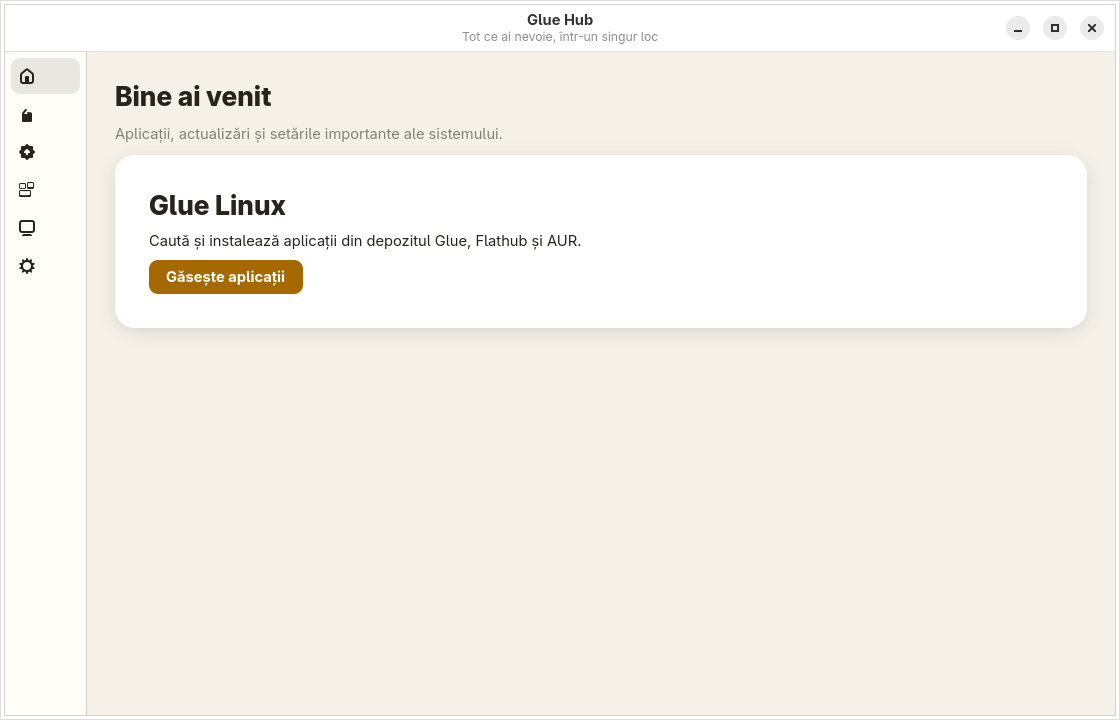
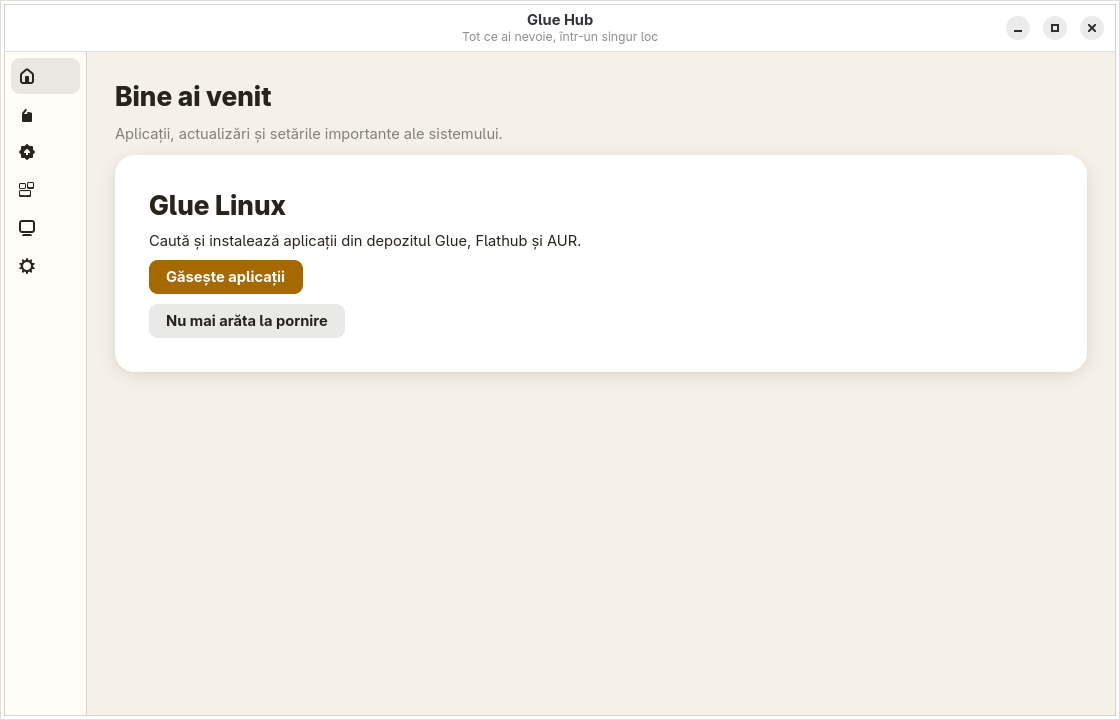
Hub: adauga autostart, taste si preview Gentoo

Changed region(s): [[0.0938, 0.4278, 0.9688, 0.4889]]

diff --git a/packages/glue-hub/glue_hub/pages.py b/packages/glue-hub/glue_hub/pages.py
@@ -2,13 +2,14 @@
 
 from __future__ import annotations
 
-import json
 import subprocess
+import json
 from pathlib import Path
 
 from gi.repository import GLib, Gtk
 
 from .system import system_summary
+from .keybindings import binding_rows, load_shell_choices
 
 
 def base_page(title: str, subtitle: str = "") -> Gtk.Box:
@@ -25,7 +26,7 @@ def base_page(title: str, subtitle: str = "") -> Gtk.Box:
     return page
 
 
-def home_page(open_apps) -> tuple[Gtk.Widget, Gtk.Widget, Gtk.Widget]:
+def home_page(open_apps, disable_autostart) -> tuple[Gtk.Widget, Gtk.Widget, Gtk.Widget]:
     page = base_page(
         "Bine ai venit", "Aplicații, actualizări și setările importante ale sistemului.")
     hero = Gtk.Box(orientation=Gtk.Orientation.VERTICAL, spacing=10)
@@ -40,6 +41,9 @@ def home_page(open_apps) -> tuple[Gtk.Widget, Gtk.Widget, Gtk.Widget]:
     button.add_css_class("suggested-action")
     button.connect("clicked", lambda _button: open_apps())
     hero.append(button)
+    hide = Gtk.Button(label="Nu mai arăta la pornire", halign=Gtk.Align.START)
+    hide.connect("clicked", lambda button: (disable_autostart(), button.set_visible(False)))
+    hero.append(hide)
     page.append(hero)
     tiles = Gtk.Grid(column_spacing=10, row_spacing=10)
     for index, label in enumerate(("Internet", "Media", "Jocuri", "Utilitare")):
@@ -61,14 +65,14 @@ def keys_page() -> Gtk.Widget:
     desktop = GLib.getenv("XDG_CURRENT_DESKTOP") or "gluewc"
     try:
         data = json.loads(catalog_path.read_text())
-        session = next((s for s in data["sessions"]
-                        if s["id"].casefold() in desktop.casefold()), data["sessions"][0])
-        for binding in session.get("keybindings", []):
-            page.append(Gtk.Label(
-                label=f"{binding['keys']}    {binding['action']}", xalign=0))
+        choices = load_shell_choices(Path("/etc/glue/session.conf"))
+        session_id, rows = binding_rows(data, desktop, choices)
+        for keys, action in rows:
+            page.append(Gtk.Label(label=f"{keys}    {action}", xalign=0))
     except (OSError, ValueError, KeyError, IndexError):
+        session_id = desktop.casefold().split(":", 1)[0]
         page.append(Gtk.Label(label="Catalogul de taste nu este disponibil.", xalign=0))
-    config = Path.home() / ".config" / desktop.casefold().split(":", 1)[0]
+    config = Path.home() / ".config" / session_id
     button = Gtk.Button(label="Deschide configul", halign=Gtk.Align.START)
     button.connect("clicked", lambda _button: subprocess.Popen(["xdg-open", str(config)]))
     page.append(button)

diff --git a/packages/glue-hub/glue_hub/ui.py b/packages/glue-hub/glue_hub/ui.py
@@ -99,7 +99,7 @@ class HubWindow(Adw.ApplicationWindow):
         self.sidebar = sidebar
 
         home, self.home_hero, self.home_tiles = home_page(
-            lambda: self.stack.set_visible_child_name("apps"))
+            lambda: self.stack.set_visible_child_name("apps"), self._disable_autostart)
         self.stack.add_named(home, "home")
         self.stack.add_named(self._apps_page(), "apps")
         self.stack.add_named(self._updates_page(), "updates")
@@ -456,9 +456,10 @@ class HubWindow(Adw.ApplicationWindow):
         themes.set_selected(THEMES.index(self.config.theme))
         themes.connect("notify::selected", self._theme_selected)
         page.append(themes)
-        startup = Gtk.CheckButton(label="Arată Glue Hub la pornire", active=self.config.autostart)
-        startup.connect("toggled", self._autostart_toggled)
-        page.append(startup)
+        self.startup_toggle = Gtk.CheckButton(
+            label="Arată Glue Hub la pornire", active=self.config.autostart)
+        self.startup_toggle.connect("toggled", self._autostart_toggled)
+        page.append(self.startup_toggle)
         return page
 
     def _theme_selected(self, dropdown, _param) -> None:
@@ -469,6 +470,9 @@ class HubWindow(Adw.ApplicationWindow):
     def _autostart_toggled(self, button) -> None:
         self.config.autostart = button.get_active()
         self.config.save(self.config_path)
+
+    def _disable_autostart(self) -> None:
+        self.startup_toggle.set_active(False)
 
     def _apply_theme(self, theme: str) -> None:
         self.theme_controller.apply(theme)

diff --git a/packages/glue-hub/tests/test_config_system.py b/packages/glue-hub/tests/test_config_system.py
@@ -9,6 +9,7 @@ ROOT = Path(__file__).parent.parent
 sys.path.insert(0, str(ROOT))
 
 from glue_hub.config import HubConfig, THEMES, load_layout, validate_themes
+from glue_hub.keybindings import binding_rows, load_shell_choices
 from glue_hub.system import parse_checkupdates, parse_flatpak_updates, parse_sensors
 
 
@@ -73,6 +74,26 @@ class TestHelpers(unittest.TestCase):
         done = self._run("update.sh")
         self.assertEqual(done.returncode, 0)
         self.assertIn("pacman -Syu", done.stdout)
+
+
+class TestKeybindings(unittest.TestCase):
+    def test_current_session_includes_selected_shell(self):
+        data = {
+            "sessions": [{"id": "gluewc", "keybindings": [
+                {"keys": "Super+F1", "action": "Audio"}]}],
+            "shells": [{"id": "noctalia", "keybindings": [
+                {"keys": "Super+n", "action": "Notificări"}]}],
+        }
+        session, rows = binding_rows(
+            data, "gluewc", {"shell.gluewc": "noctalia"})
+        self.assertEqual(session, "gluewc")
+        self.assertEqual(rows, [("Super+F1", "Audio"), ("Super+n", "Notificări")])
+
+    def test_load_choices(self):
+        with tempfile.TemporaryDirectory() as tmp:
+            path = Path(tmp) / "session.conf"
+            path.write_text("[session]\nshell.gluewc=glueqs\n")
+            self.assertEqual(load_shell_choices(path), {"shell.gluewc": "glueqs"})
 
 
 if __name__ == "__main__":

diff --git a/packages/glue-hub/glue_hub/keybindings.py b/packages/glue-hub/glue_hub/keybindings.py
@@ -1,0 +1,32 @@
+"""Select friendly keybindings for the current session and shell."""
+
+from __future__ import annotations
+
+import configparser
+from pathlib import Path
+
+
+def load_shell_choices(path: Path) -> dict[str, str]:
+    parser = configparser.ConfigParser()
+    try:
+        parser.read(path, encoding="utf-8")
+        return dict(parser["session"]) if parser.has_section("session") else {}
+    except (OSError, configparser.Error):
+        return {}
+
+
+def binding_rows(data: dict, desktop: str, choices: dict[str, str]) -> tuple[str, list[tuple[str, str]]]:
+    sessions = data.get("sessions", [])
+    session = next((item for item in sessions
+                    if str(item.get("id", "")).casefold() in desktop.casefold()),
+                   sessions[0] if sessions else {})
+    session_id = str(session.get("id", desktop.casefold()))
+    bindings = list(session.get("keybindings", []))
+    shell_id = choices.get(f"shell.{session_id}")
+    shell = next((item for item in data.get("shells", [])
+                  if item.get("id") == shell_id), None)
+    if shell:
+        bindings.extend(shell.get("keybindings", []))
+    rows = [(str(item.get("keys", "")), str(item.get("action", "")))
+            for item in bindings if item.get("keys") and item.get("action")]
+    return session_id, rows

diff --git a/packages/glue-installer/glue_installer/plan_greeter.py b/packages/glue-installer/glue_installer/plan_greeter.py
@@ -88,6 +88,10 @@ def _session_wrapper_content(session: Session, shell_cmd: Optional[str]) -> str:
     wayland_env = (
         _WAYLAND_SOFTWARE_FALLBACK if session.session_type == "wayland" else ""
     )
+    hub_block = (
+        "    command -v glue-hub >/dev/null 2>&1 && glue-hub --autostart &\n"
+        if session.kind == "wm" else ""
+    )
     desktop = session.desktop or session.id
     return f"""\
 #!/bin/sh
@@ -98,7 +102,7 @@ if [ "${{1:-}}" = "--inner" ]; then
     command -v pipewire       >/dev/null 2>&1 && pipewire &
     command -v wireplumber    >/dev/null 2>&1 && wireplumber &
     command -v pipewire-pulse >/dev/null 2>&1 && pipewire-pulse &
-{shell_block}    exec {cmd}
+{hub_block}{shell_block}    exec {cmd}
 fi
 
 {x11_block}export XDG_CURRENT_DESKTOP={desktop}
@@ -131,6 +135,13 @@ def _greeter_files(
         PlannedFile(
             path="/etc/greetd/config.toml",
             content=_GREETD_CONFIG_CONTENT, mode=0o644,
+        ),
+        PlannedFile(
+            path="/etc/glue/session.conf",
+            content=("[session]\n" + "".join(
+                f"shell.{session_id}={shell_id}\n"
+                for session_id, shell_id in sorted(shell_choice.items()))),
+            mode=0o644,
         ),
     ]
     for session in sessions:

diff --git a/packages/glue-installer/tests/test_plan.py b/packages/glue-installer/tests/test_plan.py
@@ -764,6 +764,18 @@ class TestGamingFilesAndPrimeRun(unittest.TestCase):
         self.assertIn("store=1", enabled_cfg.content)
         self.assertIn("store=0", disabled_cfg.content)
 
+    def test_glue_hub_autostarts_in_wm_wrapper(self):
+        catalog = load_catalog(_CATALOG_PATH)
+        plan = resolve_plan(catalog, Selection(
+            "linux-cachyos", "dinit", ["gluewc"], {"gluewc": "glueqs"},
+            ["app-store"], False, False))
+        wrapper = next(f for f in plan.files
+                       if f.path == "/usr/local/bin/glue-session-gluewc")
+        self.assertIn("glue-hub --autostart &", wrapper.content)
+        session_cfg = next(f for f in plan.files
+                           if f.path == "/etc/glue/session.conf")
+        self.assertIn("shell.gluewc=glueqs", session_cfg.content)
+
 
 # ---------------------------------------------------------------------------
 # Zram (roadmap 1.2) and gaming additions (roadmap 1.3)

diff --git a/.orchestrator/ROADMAP.md b/.orchestrator/ROADMAP.md
@@ -116,17 +116,17 @@ Decizie (user, 2026-10-03, ADR-017): un singur magazin pe TOATE sesiunile = Glue
 - [x] 7.3 **Pagina Aplicații**: căutare instant peste repo + Flathub (fără taste tehnice; „video” găsește VLC, Kdenlive, Shotcut din ambele surse); rânduri „Recomandate” (lista curatoriată Glue: Firefox, LibreOffice, VLC, GIMP, Discord, Spotify, OBS, Steam, Lutris, Thunderbird, Telegram, Kdenlive, Inkscape, Blender, Krita, qBittorrent, VS Code/Codium, Bitwarden, Signal, Minecraft launcher — fiecare verificată că există în repo sau pe Flathub) și categorii (Internet, Birou, Media, Chat, Jocuri, Grafică, Dezvoltare, Utilitare — mapate din categoriile AppStream). Carduri cu iconiță reală, nume, o linie de descriere, badge sursă discret. **Nicăieri cuvintele pacman/flatpak/pachet** în UI-ul de bază; „De pe Flathub” / „Din depozitul Glue” doar pe pagina de detalii.
 - [ ] 7.4 **Pagina de detalii**: iconiță mare, nume, dezvoltator, descriere lungă, **galerie de capturi** (descărcate lazy în `~/.cache/glue-hub/shots/`, placeholder cât se încarcă), licență, mărime, versiune, butoane mari **Instalează / Deschide / Dezinstalează**, progres vizibil cu procent și „Gata” / „A eșuat: <motiv în română>”. Install: repo → `pkexec /usr/lib/glue-hub/pkg.sh install <pkg>` (pacman -S --noconfirm --needed, o singură parolă pe sesiune prin policy `auth_admin_keep`); Flatpak → `flatpak install -y --user flathub <id>` fără parolă. Dezinstalare la fel. Lansare: `gtk-launch`/`flatpak run`.
 - [ ] 7.5 **Pagina Actualizări**: buton mare „Actualizează tot” = `pkexec /usr/lib/glue-hub/update.sh` (`pacman -Syu --noconfirm`, apoi `flatpak update -y` dacă există flatpak), output live într-un panou expandabil, rezumat final, „Repornește” dacă s-a schimbat kernelul; badge cu numărul de update-uri pe sidebar (`checkupdates` din pacman-contrib — verifică că există în world — + `flatpak remote-ls --updates`), verificat DOAR la deschiderea Hub-ului și la apăsarea „Verifică”, niciodată dintr-un daemon. update.sh refuză `-Syu` când e `nvidia-open-dkms` fără `linux-cachyos-headers` și explică. „Ultima actualizare: <dată>”. Notă vizibilă o singură dată: „Steam se actualizează singur când îl deschizi.”
-- [ ] 7.6 **Tastele mele**: keybind-urile sesiunii CURENTE (XDG_CURRENT_DESKTOP / XDG_SESSION_DESKTOP) din `/usr/share/glue/catalog.json` (installerul îl copiază pe țintă) + shell-ul ales; buton „Deschide configul”.
+- [x] 7.6 **Tastele mele**: keybind-urile sesiunii CURENTE (XDG_CURRENT_DESKTOP / XDG_SESSION_DESKTOP) din `/usr/share/glue/catalog.json` (installerul îl copiază pe țintă) + shell-ul ales; buton „Deschide configul”.
 - [ ] 7.7 **Sistem**: OS/kernel/WM/RAM/GPU/temperaturi (lm_sensors), „Font terminal +/−” (termfont, Faza 8), „Mod performanță/echilibrat/economie” (powerprofilesctl), „Mod joc: dezactivează efectele și permite tearing” (scrie configul gluewc + `gluewc-msg reload`), „Deschide terminalul”. Căutarea avansată repo/AUR este o secțiune în pagina Aplicații a Hub-ului; nu deschide alt magazin.
 - [x] 7.8 **Teme vizuale** (cerința userului 2026-10-03): în Setări, selector „Aspect” cu minimum trei teme, persistat în `~/.config/glue/hub.conf` (`theme=`), aplicat live. Fiecare temă = un fișier CSS GTK4 în `/usr/share/glue-hub/themes/<nume>/theme.css` + un fișier de layout (`layout.json`: forma cardurilor, raze, umbre, densitate, dacă pagina de start are banner „hero” mare sau grilă de tile-uri, poziția sidebarului). Temele: (1) **„Glue”** (default): amber pe aproape-negru din `palette.json`, carduri rotunjite, umbre discrete; (2) **„Vitrină”** — inspirată de magazinele de aplicații de pe desktop-urile comerciale în stil deschis: fundal alb/gri cald, carduri mari foarte rotunjite (16–20 px), banner hero cu o aplicație „a săptămânii”, tipografie mare și aerisită, sidebar îngust cu iconițe; (3) **„Mozaic”** — inspirată de magazinele în stil tile-uri: fundal întunecat, grilă de tile-uri dreptunghiulare cu accent albastru/colorat per categorie, rânduri orizontale derulabile, iconițe mari pe fundal colorat; (4) opțional **„Sticlă”**: întunecat cu transparență/blur pe gluewc (scenefx) și carduri translucide. REGULĂ: inspirate ca structură și proporții, dar FĂRĂ nume, logo-uri, iconițe sau fonturi proprietare ale Apple/Microsoft în cod, în nume de temă sau în capturi — numele temelor sunt cele de mai sus. Capturi de ecran cu fiecare temă (headless, container) în `packages/glue-hub/screenshots/` și în README. Temele se aplică și paginii de detalii și dialogurilor de progres, nu doar listei.
-- [ ] 7.9 **Autostart + Live**: bifă „Arată Glue Hub la pornire” (default ON) în `hub.conf` (`autostart=0/1`); wrapperul de sesiune pornește Hub-ul doar dacă autostart != 0; buton „Nu mai arăta”; .desktop în meniu + keybind Super+F1 în gluewc/nvwm (și în catalog). Pe live: pagina „Live” cu banner „Rulezi de pe stick — apasă Instalează” (Faza 10.1).
+- [ ] 7.9 **Autostart + Live**: bifă „Arată Glue Hub la pornire” (default ON) în `hub.conf` (`autostart=0/1`); wrapperul de sesiune pornește Hub-ul doar dacă autostart != 0; buton „Nu mai arăta”; .desktop în meniu + keybind Super+Shift+F1 în gluewc/nvwm (și în catalog; Super+F1 rămâne play/pause, decizie user 2026-10-03). Pe live: pagina „Live” cu banner „Rulezi de pe stick — apasă Instalează” (Faza 10.1).
 - [ ] 7.10 Teste: unit pe catalog (parsare AppStream real din pachetul artixlinux-appstream-data descărcat în container, deduplicare, căutare, cache offline, categorii), pe parsarea `checkupdates`/`flatpak remote-ls`, pe teme (fiecare CSS se încarcă fără erori GTK, layout.json validat); lansare headless în container pe fiecare pagină și fiecare temă fără crash (gluewc headless + GDK_BACKEND=wayland, poze salvate); `update.sh` și `pkg.sh` testate în dry-run pe țintă E2E. API-ul Flathub se mock-uiește în teste (fixture JSON salvat o dată).
 - Criteriu: un om atehnic găsește „VLC”, vede 3 capturi, apasă Instalează, îl deschide din Hub și dă „Actualizează tot” fără să vadă vreodată cuvintele pacman/flatpak; Hub sub 60 MB pe Acasă și sub 120 MB cu galeria deschisă; teme comutabile live; totul merge offline cu ultimul catalog.
 
 ## Faza 10 — Live desktop + installer grafic
 
 - [ ] 10.0 Decizie (ADR-009): installerul grafic NU e Calamares (există în world 3.4.2, dar e Qt6 + KDE Frameworks + kpmcore, greu pe live, arată străin în gluewc și ar duplica în module Calamares logica Python deja testată). Installerul grafic e al nostru: Python + GTK peste `ui_model`/`plan`/`disks`/`alongside`/`osdetect`, temat amber, rulat ca fereastră normală în gluewc. Partiționarea „alături de” vine din Faza 2.6, nu din kpmcore.
-- [ ] 10.1 Live: autologin user `glue` (sudo fără parolă) → agetty tty1 autologin + profil care, dacă există `/dev/dri/card*` și nu e `glue.tui` în cmdline, pornește `gluewc-session` cu glueqs; altfel installerul TUI în consolă. Intrare de boot "Glue Linux (text installer)" cu `glue.tui`. greetd nu rulează pe live. La pornirea desktopului live se deschide automat **Glue Hub în mod Live** (Faza 7, pagina „Live”): butoane mari „Instalează Glue Linux” (deschide `glue-install-gui`), „Încearcă bara: glueqs / Noctalia” (comută shell-ul pe loc), „Tastele mele” (keybind-urile gluewc, deja vizibile fără să știi nimic), „Verifică update-uri” (pe live: compară versiunea ISO-ului cu ultimul release de pe GitHub și spune dacă e mai nou; pe instalat: pacman/flatpak ca în 7.4), „Informații” (ce e Glue, ce vine instalat, hardware detectat: GPU, RAM, disc, baterie), „Lucruri utile” (deschide terminal, fișiere, browser, setări rețea). Super+F1 îl redeschide oricând.
+- [ ] 10.1 Live: autologin user `glue` (sudo fără parolă) → agetty tty1 autologin + profil care, dacă există `/dev/dri/card*` și nu e `glue.tui` în cmdline, pornește `gluewc-session` cu glueqs; altfel installerul TUI în consolă. Intrare de boot "Glue Linux (text installer)" cu `glue.tui`. greetd nu rulează pe live. La pornirea desktopului live se deschide automat **Glue Hub în mod Live** (Faza 7, pagina „Live”): butoane mari „Instalează Glue Linux” (deschide `glue-install-gui`), „Încearcă bara: glueqs / Noctalia” (comută shell-ul pe loc), „Tastele mele” (keybind-urile gluewc, deja vizibile fără să știi nimic), „Verifică update-uri” (pe live: compară versiunea ISO-ului cu ultimul release de pe GitHub și spune dacă e mai nou; pe instalat: pacman/flatpak ca în 7.4), „Informații” (ce e Glue, ce vine instalat, hardware detectat: GPU, RAM, disc, baterie), „Lucruri utile” (deschide terminal, fișiere, browser, setări rețea). Super+Shift+F1 îl redeschide oricând.
 - [ ] 10.2 Pe live vin exact aplicațiile default ale unei instalări gluewc: alacritty (Faza 8) + fastfetch, firefox, magazinul (fără rețea arată doar catalogul), Glue Hub, thunar (sau alt file manager ușor, același pe țintă), mpv, imv/feh, un editor. Fără Steam/gaming pe live.
 - [ ] 10.3 `glue-install-gui` în același pachet glue-installer: Python + GTK (toolkit-ul Hub-ului), al doilea front-end peste `ui_model`/`Selection` (zero logică duplicată). Ecrane: bun venit (Încearcă / Instalează) → limbă+tastatură → rețea (listă Wi-Fi + parolă, nmcli) → sesiune (5 carduri cu poză, gluewc preselectat; la gluewc: glueqs/Noctalia cu buton "Comută acum" care restartează shell-ul pe live) → gaming (bifă + scheduler) → magazin (bifa din Faza 6.4) → disc (ecranul actual erase/existentă/manual + rescan; „alături de” vine din Faza 2.6 DUPĂ primul ISO — manual deschide gparted dacă e pe live, altfel cfdisk în terminal) → swap (Faza 4) → identitate → rezumat (cu OS-urile detectate pentru Limine) → progres cu log expandabil → "Repornește". Înapoi peste tot.
 - [ ] 10.4 TUI rămâne funcțional și testat (fallback fără KMS; E2E rulează pe el).

diff --git a/README.md b/README.md
@@ -83,6 +83,13 @@ systemd may not work on Glue Linux.
 The appearance can be changed live from **Settings → Appearance**. The choice
 is kept for the next launch.
 
+On a Gentoo development machine with PyGObject, GTK4 and libadwaita installed,
+preview the current interface directly from the checkout:
+
+```sh
+sh scripts/run-glue-hub-dev.sh
+```
+
 | Glue | Vitrină | Mozaic |
 | --- | --- | --- |
 | ![Glue Hub with the Glue theme](packages/glue-hub/screenshots/glue.png) | ![Glue Hub with the Vitrină theme](packages/glue-hub/screenshots/vitrina.png) | ![Glue Hub with the Mozaic theme](packages/glue-hub/screenshots/mozaic.png) |
